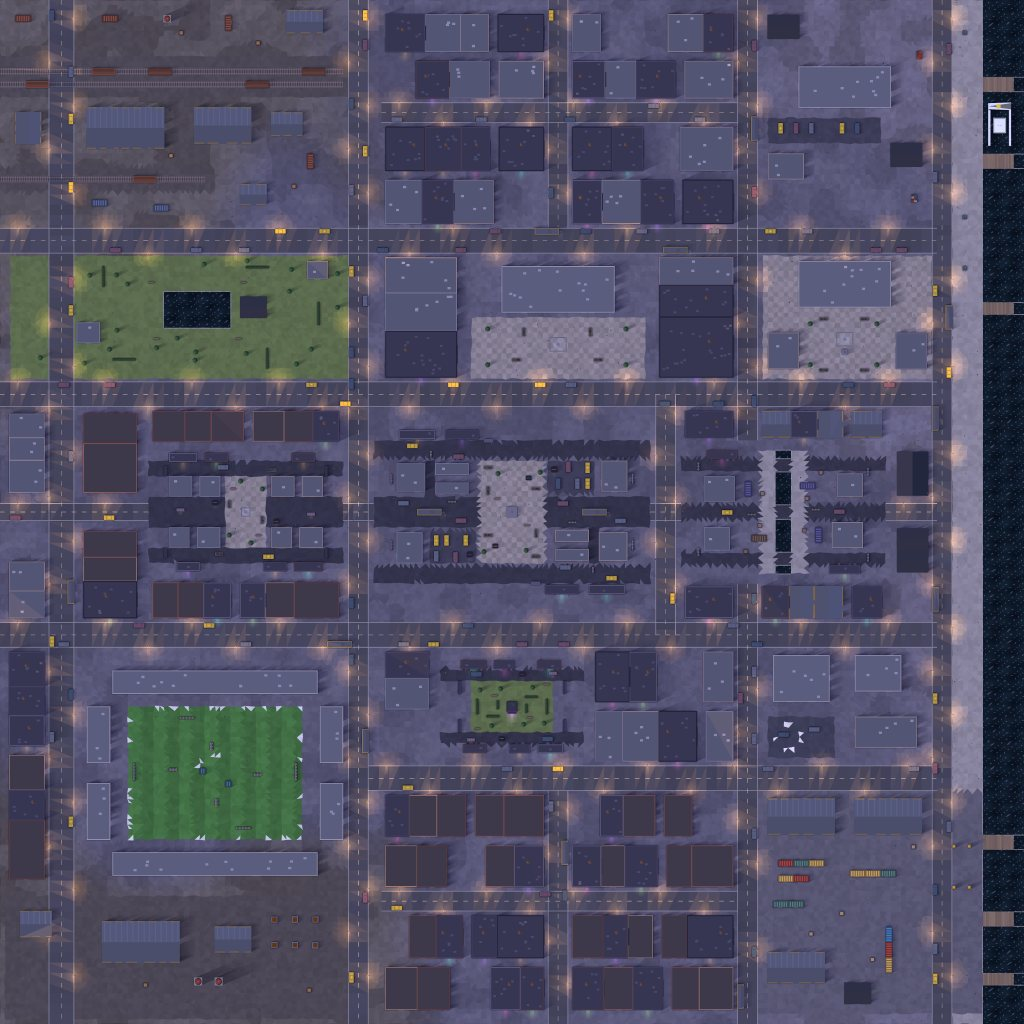
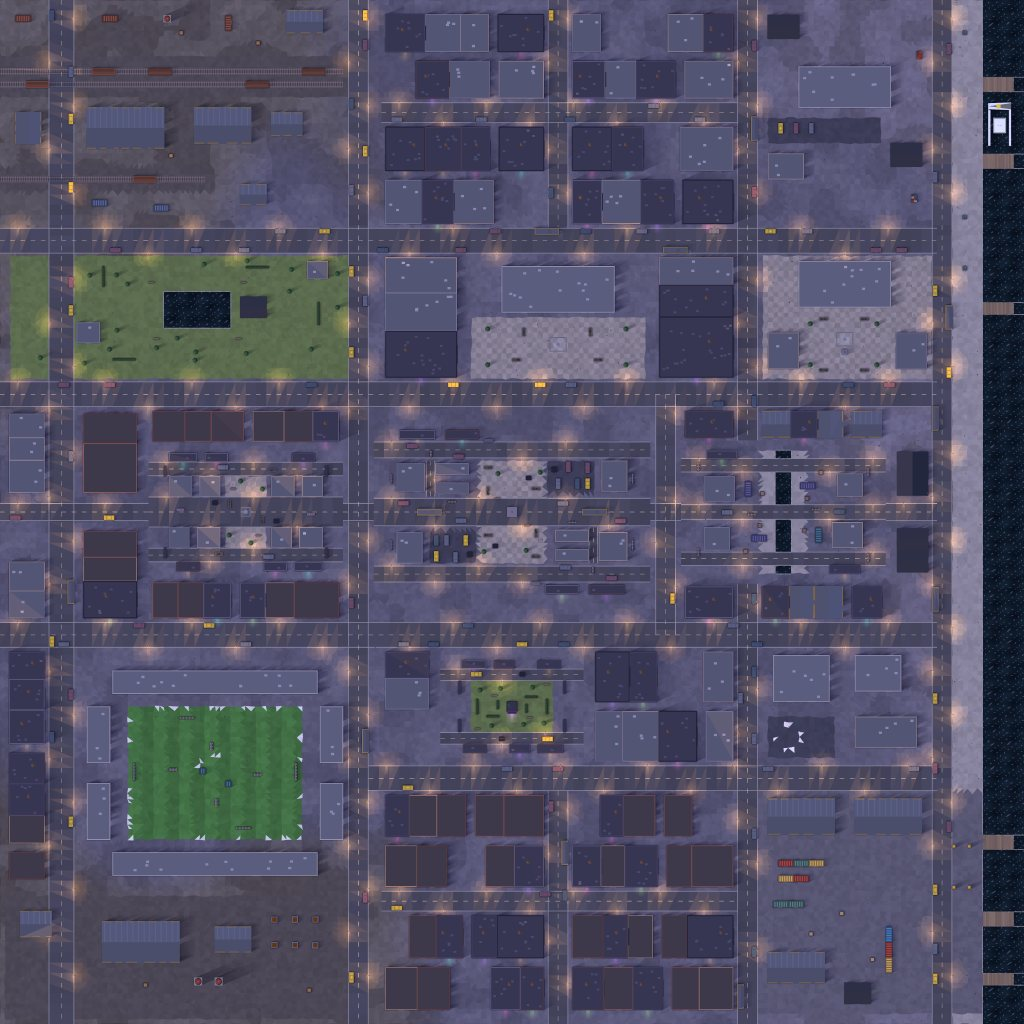
Meridian: Midtown the one tier 1 district, Rebound areas off the sea and edges, Extraction test fixes; docs
Claude-Session: https://claude.ai/code/session_015yPczfganKKDdg1N2GSCyT

diff --git a/js/shared/maps/br-meridian.js b/js/shared/maps/br-meridian.js
@@ -121,8 +121,9 @@ function build() {
   P.zones.push({ x: 372, z: 0, w: 12, d: H, kind: 'quay' });
 
   // ---- The districts ------------------------------------------------------------------------------------------
-  // Each is its 6v6 map placed as it is (border dropped, blocks opened up into buildings to loot), a tier 1 place
-  // (Union Square, mostly open ground, tier 2) with loot out round its cover.
+  // Each is its 6v6 map placed as it is (border dropped, blocks opened up into buildings to loot), with loot out round
+  // its cover: Midtown a tier 1 place, the other three tier 2 (three tier 1 places side by side geared every squad
+  // in Rebound's area too fast).
   const district = (id, map, name, poiX, poiZ, r, tier = 1) => {
     const at = DISTRICTS[id];
     P.poi(id, name, poiX, poiZ, r, 'metro', tier);
@@ -131,8 +132,8 @@ function build() {
     P.outdoorLoot(at.x + map.width / 2, at.z + map.height / 2, Math.min(map.width, map.height) / 2, Math.round(map.width * map.height / 300), tier);
   };
   district('midtown', midtown, 'Midtown', 200, 200, 40);
-  district('oldquarter', oldquarter, 'Old Quarter', 96, 200, 30);
-  district('canalrow', canalrow, 'Canal Row', 306, 200, 30);
+  district('oldquarter', oldquarter, 'Old Quarter', 96, 200, 30, 2);
+  district('canalrow', canalrow, 'Canal Row', 306, 200, 30, 2);
   district('unionsq', unionsq, 'Union Square', 200, 276, 22, 2);
 
   // ---- The Exchange (north of Midtown, between North Street and Park Row): the stock exchange and its blocks ----------
@@ -423,8 +424,8 @@ function build() {
 
   const circleBias = P.pois.map(p => ({ x: p.x, z: p.z, w: p.tier === 1 ? 1 : p.tier === 2 ? 0.8 : 0.5 }))
     .concat([[144, 154], [292, 248], [144, 304], [292, 94], [24, 120]].map(([x, z]) => ({ x, z, w: 0.4 })));
-  // Rebound's compact areas: centred on the districts, leaning west, east and north (each keeps clear of the corners).
-  const reboundAreas = [{ x: 200, z: 200, r: 150 }, { x: 165, z: 195, r: 150 }, { x: 235, z: 205, r: 150 }, { x: 200, z: 165, r: 150 }];
+  // Rebound's compact areas: centred on the districts, leaning west, east and north (each keeps clear of the corners, and the east one of the sea, which left too little land).
+  const reboundAreas = [{ x: 200, z: 200, r: 150 }, { x: 168, z: 196, r: 150 }, { x: 222, z: 204, r: 150 }, { x: 200, z: 184, r: 150 }];
 
   // Conquest and Breakthrough (branch bfmodes, docs/MODES.md "Layout format"): the boulevard and the districts on it.
   // Every point is moved onto open ground round its place.

diff --git a/js/shared/maps/unionsq.js b/js/shared/maps/unionsq.js
@@ -20,7 +20,7 @@ function build() {
 
     // ---- The square's west half (x 12-28): trees, hedges, benches.
     tree(15, 11), tree(19.5, 25), tree(23, 10.5),
-    hedge(14, 15, 0.8, 6), hedge(18, 21.4, 5, 0.8), hedge(22, 15.6, 0.8, 3.4), [10.5, 30.4, 3, 1.1, 1.0, 'stall'],
+    hedge(14, 15, 0.8, 6), hedge(18, 21.4, 5, 0.8), hedge(22, 15.6, 0.8, 3.4),
     bench(20, 13.4), bench(13.4, 26.4),
 
     // ---- Spawn screens.

diff --git a/docs/DISTRICTS.md b/docs/DISTRICTS.md
@@ -91,6 +91,51 @@ Midtown), the Ferry Terminal and the Waterfront Docks (the east shore), City Hal
 Westgate, the Stadium, Southside and Chapel Row (south), the Power Station. The sea along the east edge is where the
 coast region will join one day.
 
+### What was built (files)
+- `js/shared/maps/region-kit.js`: `placeDistrict`, `doorSpots`, `cityBlock` (region fill), `shellWalls`, `floorLoot`,
+  `pruneUnreachable` (drops loot a bot could never reach, same rule as the nav grid and the validator), `offsetPicks`.
+- `js/shared/maps/midtown.js`, `oldquarter.js`, `canalrow.js`, `unionsq.js`: the districts (appended to `MAPS`).
+- `js/shared/maps/br-meridian.js`: the City. `districts` (each district's rect), `br` (18 places, loot, caches,
+  `circleBias`, `reboundAreas`, `exfils` with reserved landing zones), `bf` (Conquest and Breakthrough layouts).
+  District street zones become painted `roads`; streets of the city's own are `ROADS`.
+- `js/render/themes/city.js`: the City palette (`THEMES.city`, `giant: true`), ground, zones, the brownstone style,
+  per-tile lights (streetlamp pools baked across tile edges), lamp posts, El decks, lantern strings, trains, shop sign
+  styles, the edge of the city. Hooked into the giant-world streamer (themes/frontier.js `EXTRAS`), which also draws
+  `void` pits (light wells) as holes, not water.
+- Wiring: `map:<id>` icons (icons-maps.js, icons.js), cards (cardbook.js `MAP_ART`; `meridian` is plays-based like the
+  islands; new pattern `metropolis` in cardart.js), `THEME_AUDIO.city`, ambient `city`, props `city`, `THUMB_STYLE.city`,
+  `dev/render-maps.html` framings, art `assets/maps/<id>.jpg` and `assets/maps/meridian-overview.jpg`.
+
+### Measured (2-vCPU sandbox, busy; SwiftShader frame times compare runs here only, calls and triangles are exact)
+| | walls | buildings | loot / caches | places | host tick mean (validator roam / sim-br quads) |
+|---|---|---|---|---|---|
+| Frontier | 1,561 | 75 | 560 / 44 | 17 | - / - |
+| Meridian City | ~2,800 | ~120 | ~870 / ~43 | 18 | 0.36-0.51 ms / 0.24 ms |
+
+| Low quality, 932 x 430, on the ground after the jump (dev/ui-sweep-perf.py) | calls median (max) | triangles median (max) | script ms median (max) |
+|---|---|---|---|
+| Frontier (`br`) | 51.5 (59) | 61.0k (83.3k) | 10.6 (18.8) |
+| Jadefall (`brjade`) | 47.0 (53) | 55.1k (55.5k) | 9.8 (20.0) |
+| Meridian, Midtown's boulevard (`brcity`) | 55.5 (69) | 48.6k (68.9k) | 12.0 (81.5: the frame the test teleports the player in, when the nearest tiles are built at once) |
+
+### Tuning notes
+- Places: Midtown is the only tier 1 district; the Old Quarter, Canal Row and Union Square are tier 2. With three tier 1
+  districts side by side, Rebound squads were all geared within a minute and some matches ended at 4.5 min.
+- Rebound areas (`br.reboundAreas`): four 150 m areas over the middle of the city. One leaning east over the sea left
+  too little land (a 4.5 min match); one leaning north put Gallery Row on its edge, where a bot's landing spot pushed
+  out of a building ended up just outside the area. Measured after: quads 5.9-7.3 min, duos 5.9-7.1, mean 6.5.
+- Extraction's landing zones are named and reserved before the fill (a dense city has no open clearings for the
+  derived ones): seven round the city, the final at one of the four junctions round Midtown, eight inserts.
+- dev/sim-extract.mjs: two unit checks were map-dependent (squads parked a metre apart in one corner took finishers
+  off each other; an idle guest was found by a patrol). The test now parks them 2.2 m apart and keeps the guest up;
+  Frontier and Jadefall still pass.
+
+### Tests
+`node dev/map-validate.mjs midtown oldquarter canalrow unionsq meridian`; `node dev/sim-br.mjs --map=meridian`;
+`node dev/sim-resurgence.mjs --map=meridian`; `node dev/sim-extract.mjs --map=meridian` (`--quick` for one match
+each); `python3 dev/ui-sweep-perf.py [port] [out] brcity`; `node dev/br-overview.mjs meridian`;
+`node dev/render-snapshots.mjs midtown oldquarter canalrow unionsq meridian`.
+
 ## The rest (plan)
 Each later region is new districts too (the existing maps stay as they are):
 - **The Coast**: a shoreline region east of the City's waterfront: a fish market, a boardwalk and its pier, a tidal
